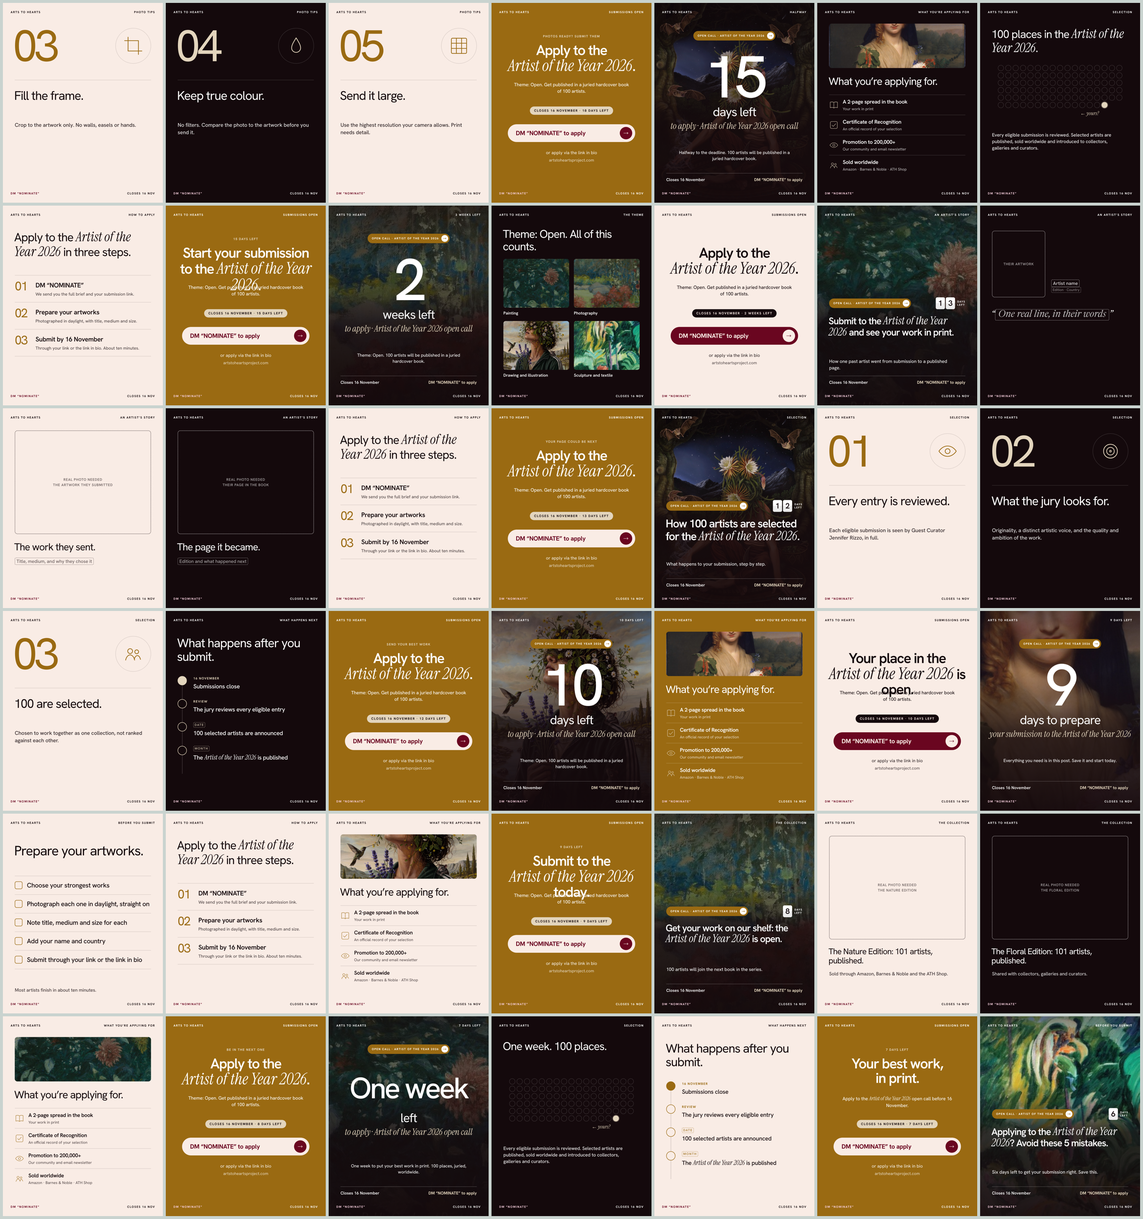
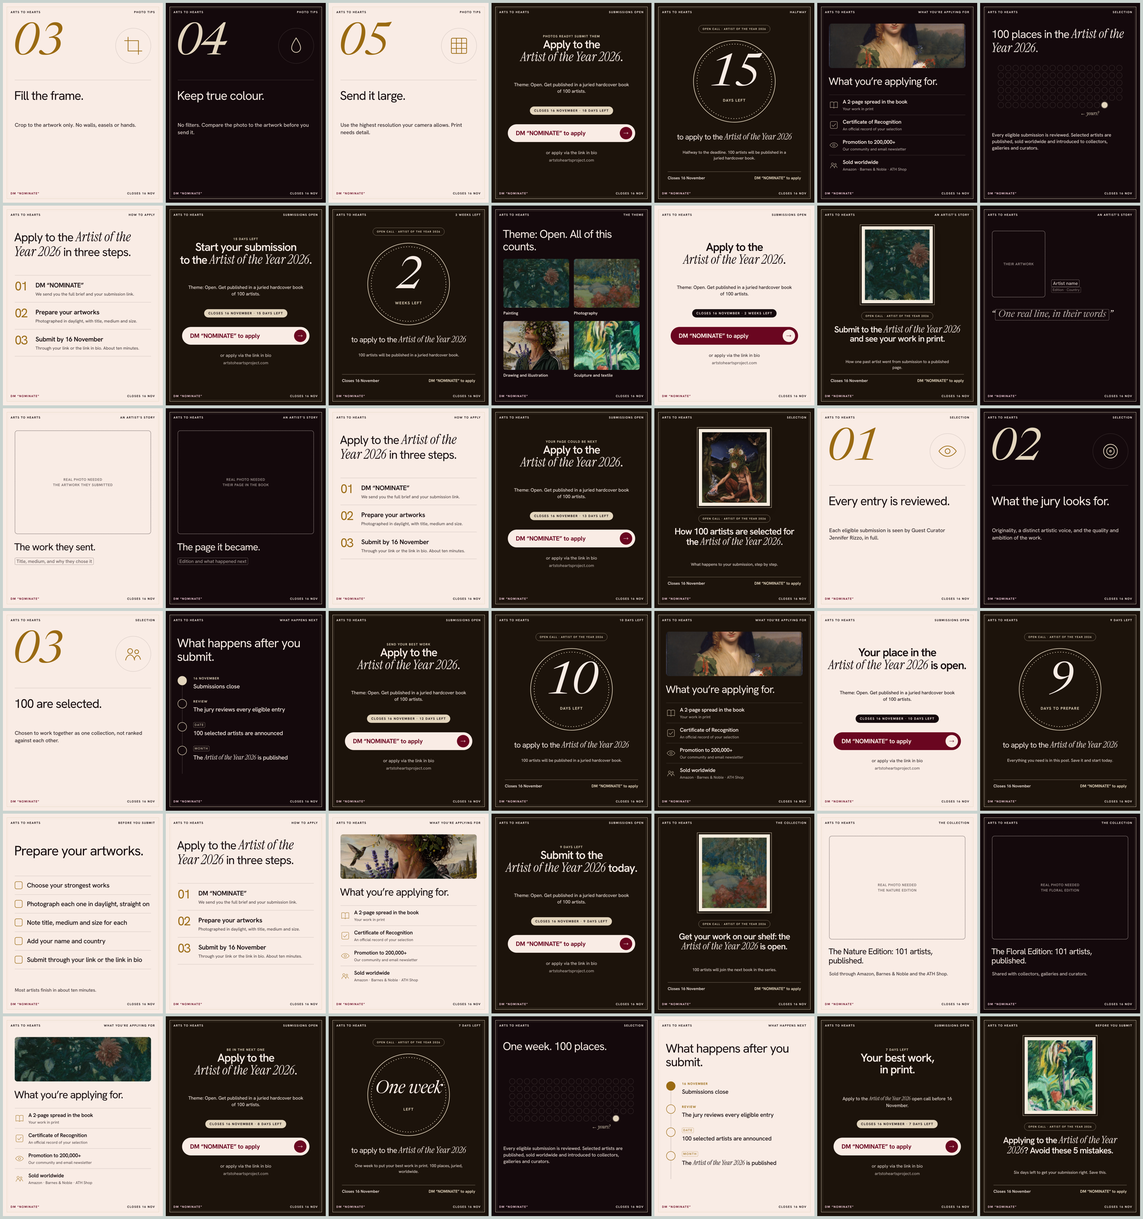
Per-call visual style: award look for Artist of the Year so calls never look alike
Claude-Session: https://claude.ai/code/session_01Bc4gkdxg6i3YRuybqzVB3k

diff --git a/design/campaigns/open-calls/month.js b/design/campaigns/open-calls/month.js
@@ -139,7 +139,7 @@ const T = {
     const b = (g.bg === CREAM ? btnCTA(BURG, CREAM, CREAM) : btnCTA(CREAM, BURG, BURG)).replace('{TOP}', 820);
     return {bg:g.bg, html:`${corners(g.fg, g.dm, o.tr||'Submissions open')}
       ${o.kicker ? `<p class="a c lab" style="left:0;right:0;top:210px;color:${g.acc}">${o.kicker}</p>` : ''}
-      <p class="a H c" style="left:60px;right:60px;top:270px;font-size:${o.size||96}px;color:${g.fg}">${o.head || `Apply to the<br>${GE()}.`}</p>
+      <p class="a H c" style="left:60px;right:60px;top:${String(state.name).length > 16 ? 240 : 270}px;font-size:${Math.round((o.size||96) * (String(state.name).length > 16 ? .8 : 1))}px;color:${g.fg}">${o.head || `Apply to the<br>${GE()}.`}</p>
       <p class="a c sub" style="left:140px;right:140px;top:${o.subTop||530}px;color:${g.fg};opacity:.92">${o.sub || `${state.theme ? 'Theme: ' + TH() + '. ' : ''}Get published in a juried hardcover book of ${esc(state.selected)} artists.`}</p>
       <div class="a" style="left:0;right:0;top:700px;display:flex;justify-content:center"><span class="cn" style="display:inline-flex;align-items:center;height:56px;padding:0 28px;border-radius:999px;background:${g.bg === CREAM ? INK : tint(state.colour)};color:${g.bg === CREAM ? CREAM : INK};font-size:22px">Closes ${dateLong()} · ${leftLabel()}</span></div>
       ${b}
@@ -258,6 +258,60 @@ const T = {
   },
 };
 
+
+// ---------- per-call visual identity ----------
+// 'gallery' (default): full-bleed artwork, grotesk numerals, open layouts.
+// 'award': a certificate world. Gold double frame on every slide, framed artwork,
+// serif numerals, medallion countdowns, deep ink-brown grounds.
+const AWARD_BG = '#1C130B';
+const isAward = () => state.style === 'award';
+const G0 = {...G};
+G.call = () => isAward() ? ({bg:AWARD_BG, fg:CREAM, acc:tint(state.colour), dm:PEONY, line:'rgba(249,236,229,.18)'}) : G0.call();
+G.ink  = () => isAward() ? ({bg:INK, fg:CREAM, acc:tint(state.colour), dm:PEONY, line:'rgba(249,236,229,.18)'}) : G0.ink();
+
+const gold = () => tint(state.colour);
+const frame = (c) => `<div class="a" style="inset:26px;border:2px solid ${c};pointer-events:none"></div><div class="a" style="inset:36px;border:1px solid ${c};opacity:.45;pointer-events:none"></div>`;
+const laurel = (c, w=520) => `<svg class="a" style="left:50%;top:${'{TOP}'}px;transform:translateX(-50%)" width="${w}" height="${w}" viewBox="0 0 200 200" fill="none" stroke="${c}" stroke-width="1.3">
+  <circle cx="100" cy="100" r="92"/><circle cx="100" cy="100" r="84" stroke-dasharray="2 4"/>
+  ${''}${[].map ? '' : Array.from({length:9}, (_,i) => { const a = (200 + i*14) * Math.PI/180, x = 100 + 70*Math.cos(a), y = 100 + 70*Math.sin(a); return `<ellipse cx="${x.toFixed(1)}" cy="${y.toFixed(1)}" rx="9" ry="4" transform="rotate(${(200 + i*14 + 60).toFixed(0)} ${x.toFixed(1)} ${y.toFixed(1)})"/>`; }).join('')}
+  ${[].map ? '' : Array.from({length:9}, (_,i) => { const a = (340 - i*14) * Math.PI/180, x = 100 + 70*Math.cos(a), y = 100 + 70*Math.sin(a); return `<ellipse cx="${x.toFixed(1)}" cy="${y.toFixed(1)}" rx="9" ry="4" transform="rotate(${(340 - i*14 - 60).toFixed(0)} ${x.toFixed(1)} ${y.toFixed(1)})"/>`; }).join('')}
+</svg>`;
+const framedArt = (src, style, pos) => `<div class="a" style="${style};background:#F4EBDD;padding:22px;box-shadow:0 30px 50px -20px rgba(0,0,0,.6);outline:2px solid ${gold()};outline-offset:10px">
+  <div class="img" style="width:100%;height:100%;background-image:url(${src});background-size:cover;background-position:${pos || 'center 30%'}"></div></div>`;
+const serifNum = (n, size, c) => `<span style="font-family:'ATH Serif',serif;font-style:italic;font-weight:400;font-size:${size}px;line-height:.85;letter-spacing:-.03em;color:${c}">${n}</span>`;
+const strip = (fg, acc) => `<div class="a" style="left:90px;right:90px;top:1140px;display:flex;justify-content:space-between;align-items:center;padding-top:22px;border-top:1px solid ${acc}">
+  <span style="font-size:27px;font-weight:600;color:${fg}">Closes ${dateLong()}</span><span style="font-size:27px;font-weight:700;color:${acc}">${VERB} “${KW()}” to apply</span></div>`;
+const awardTag = () => `<span class="cn" style="display:inline-flex;align-items:center;height:52px;padding:0 26px;border:1.5px solid ${gold()};color:${gold()};border-radius:999px;font-size:18px">Open call · ${esc(state.name)}</span>`;
+
+const AW = {
+  hook(o){ const c = gold();
+    return {bg:AWARD_BG, html:`${frame(c)}${corners(CREAM, PEONY, o.tr)}
+      ${framedArt(o.img || o.art || ART[0], 'left:300px;right:300px;top:140px;height:520px', o.pos || o.artPos)}
+      <div class="a c" style="left:0;right:0;top:720px">${awardTag()}</div>
+      <p class="a c H" style="left:110px;right:110px;top:800px;font-size:${Math.round((o.size||80)*.78)}px;color:${CREAM}">${o.head}</p>
+      ${o.sub ? `<p class="a c sub" style="left:160px;right:160px;top:1035px;font-size:28px;color:${CREAM};opacity:.85">${o.sub}</p>` : ''}
+      ${strip(CREAM, c)}`};
+  },
+  count(o){ const c = gold(); const tone = o.tone === 'chilli' ? '#5A0A0A' : AWARD_BG;
+    const big = String(o.big); const size = big.length <= 2 ? 300 : big.length <= 8 ? 120 : 96;
+    return {bg:tone, html:`${frame(c)}${corners(CREAM, PEONY, o.tr || leftLabel())}
+      <div class="a c" style="left:0;right:0;top:150px">${awardTag()}</div>
+      ${laurel(c, 600).replace('{TOP}', 230)}
+      <div class="a c" style="left:0;right:0;top:${big.length <= 2 ? 360 : 440}px">${serifNum(big, size, CREAM)}</div>
+      <p class="a c lab" style="left:0;right:0;top:${big.length <= 2 ? 640 : 610}px;color:${c};font-size:26px">${esc(o.unit)}</p>
+      <p class="a c R" style="left:110px;right:110px;top:870px;font-size:52px;color:${CREAM}">to apply to the ${GE()}</p>
+      <p class="a c sub" style="left:160px;right:160px;top:${o.infoTop ? o.infoTop + 40 : 990}px;font-size:28px;color:${CREAM};opacity:.85">${o.info || `${esc(state.selected)} artists will be published in a juried hardcover book.`}</p>
+      ${strip(CREAM, c)}`};
+  },
+};
+const T0 = {...T};
+T.hook = o => isAward() ? AW.hook(o) : T0.hook(o);
+T.count = o => isAward() ? AW.count(o) : T0.count(o);
+T.num = o => { const s = T0.num(o); if (!isAward() || o.img !== undefined) return s;
+  s.html = s.html.replace(/<p class="a" style="left:66px;top:170px;font-size:300px;font-weight:400;letter-spacing:-\.07em;line-height:\.8;color:([^"]+)">([^<]*)<\/p>/, (m, col, n) => `<p class="a" style="left:66px;top:150px">${serifNum(n, 300, col)}</p>`); return s; };
+// every slide in the award style sits inside the gold certificate frame
+const decorate = (s) => (isAward() && !s.html.includes('inset:26px;border:2px')) ? {...s, html: frame(gold()) + s.html} : s;
+
 // ---------- countdown singles: a different idea at every milestone ----------
 const CD = {
   weeks(left){ const g = G.cream(); const n = left; const d0 = new Date(dl()); d0.setDate(d0.getDate() - left);
@@ -342,7 +396,7 @@ const closeLn = () => `Submissions close ${dl().getDate()} ${MONTHS_L[dl().getMo
 const N = () => state.name, S = () => state.series, SEL = () => state.selected;
 
 function monthPosts(){ const name = GE(), sel = esc(state.selected); return [
- {left:30, title:'Launch', kind:'Carousel', slides:() => launch(), caption:() => caption(), pin:() => pinned()},
+ {left:30, title:'Launch', kind:'Carousel', slides:() => { const s = launch(); if (isAward()) s[0] = {...AW.hook({img:state.images.imgCover, tr:esc(state.series), head:`${esc(state.headline || 'Call for artists')}<br>${GE()}`, size:120, sub:esc(state.coverLine)}), title:'cover'}; return s; }, caption:() => caption(), pin:() => pinned()},
 
  {left:28, title:'What you can submit', kind:'Carousel · theme', slides:() => [
    T.hook({img:EX.bloom, tr:'The theme', head:`What can you submit to the ${name}?`, sub:`Five kinds of ${TW()} the jury wants to see. ${sel} will be published.`}),

diff --git a/site/post-studio/month.js b/site/post-studio/month.js
@@ -139,7 +139,7 @@ const T = {
     const b = (g.bg === CREAM ? btnCTA(BURG, CREAM, CREAM) : btnCTA(CREAM, BURG, BURG)).replace('{TOP}', 820);
     return {bg:g.bg, html:`${corners(g.fg, g.dm, o.tr||'Submissions open')}
       ${o.kicker ? `<p class="a c lab" style="left:0;right:0;top:210px;color:${g.acc}">${o.kicker}</p>` : ''}
-      <p class="a H c" style="left:60px;right:60px;top:270px;font-size:${o.size||96}px;color:${g.fg}">${o.head || `Apply to the<br>${GE()}.`}</p>
+      <p class="a H c" style="left:60px;right:60px;top:${String(state.name).length > 16 ? 240 : 270}px;font-size:${Math.round((o.size||96) * (String(state.name).length > 16 ? .8 : 1))}px;color:${g.fg}">${o.head || `Apply to the<br>${GE()}.`}</p>
       <p class="a c sub" style="left:140px;right:140px;top:${o.subTop||530}px;color:${g.fg};opacity:.92">${o.sub || `${state.theme ? 'Theme: ' + TH() + '. ' : ''}Get published in a juried hardcover book of ${esc(state.selected)} artists.`}</p>
       <div class="a" style="left:0;right:0;top:700px;display:flex;justify-content:center"><span class="cn" style="display:inline-flex;align-items:center;height:56px;padding:0 28px;border-radius:999px;background:${g.bg === CREAM ? INK : tint(state.colour)};color:${g.bg === CREAM ? CREAM : INK};font-size:22px">Closes ${dateLong()} · ${leftLabel()}</span></div>
       ${b}
@@ -258,6 +258,60 @@ const T = {
   },
 };
 
+
+// ---------- per-call visual identity ----------
+// 'gallery' (default): full-bleed artwork, grotesk numerals, open layouts.
+// 'award': a certificate world. Gold double frame on every slide, framed artwork,
+// serif numerals, medallion countdowns, deep ink-brown grounds.
+const AWARD_BG = '#1C130B';
+const isAward = () => state.style === 'award';
+const G0 = {...G};
+G.call = () => isAward() ? ({bg:AWARD_BG, fg:CREAM, acc:tint(state.colour), dm:PEONY, line:'rgba(249,236,229,.18)'}) : G0.call();
+G.ink  = () => isAward() ? ({bg:INK, fg:CREAM, acc:tint(state.colour), dm:PEONY, line:'rgba(249,236,229,.18)'}) : G0.ink();
+
+const gold = () => tint(state.colour);
+const frame = (c) => `<div class="a" style="inset:26px;border:2px solid ${c};pointer-events:none"></div><div class="a" style="inset:36px;border:1px solid ${c};opacity:.45;pointer-events:none"></div>`;
+const laurel = (c, w=520) => `<svg class="a" style="left:50%;top:${'{TOP}'}px;transform:translateX(-50%)" width="${w}" height="${w}" viewBox="0 0 200 200" fill="none" stroke="${c}" stroke-width="1.3">
+  <circle cx="100" cy="100" r="92"/><circle cx="100" cy="100" r="84" stroke-dasharray="2 4"/>
+  ${''}${[].map ? '' : Array.from({length:9}, (_,i) => { const a = (200 + i*14) * Math.PI/180, x = 100 + 70*Math.cos(a), y = 100 + 70*Math.sin(a); return `<ellipse cx="${x.toFixed(1)}" cy="${y.toFixed(1)}" rx="9" ry="4" transform="rotate(${(200 + i*14 + 60).toFixed(0)} ${x.toFixed(1)} ${y.toFixed(1)})"/>`; }).join('')}
+  ${[].map ? '' : Array.from({length:9}, (_,i) => { const a = (340 - i*14) * Math.PI/180, x = 100 + 70*Math.cos(a), y = 100 + 70*Math.sin(a); return `<ellipse cx="${x.toFixed(1)}" cy="${y.toFixed(1)}" rx="9" ry="4" transform="rotate(${(340 - i*14 - 60).toFixed(0)} ${x.toFixed(1)} ${y.toFixed(1)})"/>`; }).join('')}
+</svg>`;
+const framedArt = (src, style, pos) => `<div class="a" style="${style};background:#F4EBDD;padding:22px;box-shadow:0 30px 50px -20px rgba(0,0,0,.6);outline:2px solid ${gold()};outline-offset:10px">
+  <div class="img" style="width:100%;height:100%;background-image:url(${src});background-size:cover;background-position:${pos || 'center 30%'}"></div></div>`;
+const serifNum = (n, size, c) => `<span style="font-family:'ATH Serif',serif;font-style:italic;font-weight:400;font-size:${size}px;line-height:.85;letter-spacing:-.03em;color:${c}">${n}</span>`;
+const strip = (fg, acc) => `<div class="a" style="left:90px;right:90px;top:1140px;display:flex;justify-content:space-between;align-items:center;padding-top:22px;border-top:1px solid ${acc}">
+  <span style="font-size:27px;font-weight:600;color:${fg}">Closes ${dateLong()}</span><span style="font-size:27px;font-weight:700;color:${acc}">${VERB} “${KW()}” to apply</span></div>`;
+const awardTag = () => `<span class="cn" style="display:inline-flex;align-items:center;height:52px;padding:0 26px;border:1.5px solid ${gold()};color:${gold()};border-radius:999px;font-size:18px">Open call · ${esc(state.name)}</span>`;
+
+const AW = {
+  hook(o){ const c = gold();
+    return {bg:AWARD_BG, html:`${frame(c)}${corners(CREAM, PEONY, o.tr)}
+      ${framedArt(o.img || o.art || ART[0], 'left:300px;right:300px;top:140px;height:520px', o.pos || o.artPos)}
+      <div class="a c" style="left:0;right:0;top:720px">${awardTag()}</div>
+      <p class="a c H" style="left:110px;right:110px;top:800px;font-size:${Math.round((o.size||80)*.78)}px;color:${CREAM}">${o.head}</p>
+      ${o.sub ? `<p class="a c sub" style="left:160px;right:160px;top:1035px;font-size:28px;color:${CREAM};opacity:.85">${o.sub}</p>` : ''}
+      ${strip(CREAM, c)}`};
+  },
+  count(o){ const c = gold(); const tone = o.tone === 'chilli' ? '#5A0A0A' : AWARD_BG;
+    const big = String(o.big); const size = big.length <= 2 ? 300 : big.length <= 8 ? 120 : 96;
+    return {bg:tone, html:`${frame(c)}${corners(CREAM, PEONY, o.tr || leftLabel())}
+      <div class="a c" style="left:0;right:0;top:150px">${awardTag()}</div>
+      ${laurel(c, 600).replace('{TOP}', 230)}
+      <div class="a c" style="left:0;right:0;top:${big.length <= 2 ? 360 : 440}px">${serifNum(big, size, CREAM)}</div>
+      <p class="a c lab" style="left:0;right:0;top:${big.length <= 2 ? 640 : 610}px;color:${c};font-size:26px">${esc(o.unit)}</p>
+      <p class="a c R" style="left:110px;right:110px;top:870px;font-size:52px;color:${CREAM}">to apply to the ${GE()}</p>
+      <p class="a c sub" style="left:160px;right:160px;top:${o.infoTop ? o.infoTop + 40 : 990}px;font-size:28px;color:${CREAM};opacity:.85">${o.info || `${esc(state.selected)} artists will be published in a juried hardcover book.`}</p>
+      ${strip(CREAM, c)}`};
+  },
+};
+const T0 = {...T};
+T.hook = o => isAward() ? AW.hook(o) : T0.hook(o);
+T.count = o => isAward() ? AW.count(o) : T0.count(o);
+T.num = o => { const s = T0.num(o); if (!isAward() || o.img !== undefined) return s;
+  s.html = s.html.replace(/<p class="a" style="left:66px;top:170px;font-size:300px;font-weight:400;letter-spacing:-\.07em;line-height:\.8;color:([^"]+)">([^<]*)<\/p>/, (m, col, n) => `<p class="a" style="left:66px;top:150px">${serifNum(n, 300, col)}</p>`); return s; };
+// every slide in the award style sits inside the gold certificate frame
+const decorate = (s) => (isAward() && !s.html.includes('inset:26px;border:2px')) ? {...s, html: frame(gold()) + s.html} : s;
+
 // ---------- countdown singles: a different idea at every milestone ----------
 const CD = {
   weeks(left){ const g = G.cream(); const n = left; const d0 = new Date(dl()); d0.setDate(d0.getDate() - left);
@@ -342,7 +396,7 @@ const closeLn = () => `Submissions close ${dl().getDate()} ${MONTHS_L[dl().getMo
 const N = () => state.name, S = () => state.series, SEL = () => state.selected;
 
 function monthPosts(){ const name = GE(), sel = esc(state.selected); return [
- {left:30, title:'Launch', kind:'Carousel', slides:() => launch(), caption:() => caption(), pin:() => pinned()},
+ {left:30, title:'Launch', kind:'Carousel', slides:() => { const s = launch(); if (isAward()) s[0] = {...AW.hook({img:state.images.imgCover, tr:esc(state.series), head:`${esc(state.headline || 'Call for artists')}<br>${GE()}`, size:120, sub:esc(state.coverLine)}), title:'cover'}; return s; }, caption:() => caption(), pin:() => pinned()},
 
  {left:28, title:'What you can submit', kind:'Carousel · theme', slides:() => [
    T.hook({img:EX.bloom, tr:'The theme', head:`What can you submit to the ${name}?`, sub:`Five kinds of ${TW()} the jury wants to see. ${sel} will be published.`}),

diff --git a/site/post-studio/index.html b/site/post-studio/index.html
@@ -100,6 +100,7 @@ summary{font:600 12px/1 var(--mono);letter-spacing:.1em;text-transform:uppercase
       <div class="f"><label for="editionLabel">Edition label (cover tag)</label><input id="editionLabel"></div>
       <div class="f"><label for="seriesNoun">Count noun (“editions”, “books”)</label><input id="seriesNoun"></div>
     </div>
+    <div class="f"><label for="style">Visual style (so calls never look alike)</label><select id="style"><option value="gallery">Gallery: full-bleed artwork</option><option value="award">Award: gold certificate frame, medallion countdowns</option></select></div>
     <div class="f"><label for="name">Edition name</label><input id="name"></div>
     <div class="row2">
       <div class="f"><label for="keyword">DM keyword</label><input id="keyword"></div>
@@ -206,7 +207,7 @@ const DEFAULTS = {
   prize:'$500', prizeExtra:'a 4-page feature, a trophy and an Artsy listing', runners:'A 2-page feature and a trophy.',
   jury:'', results:'', pub:'', fee:'', commentFrom:'2026-12-08', elig:'No degree, gallery or exhibition history needed. Individual artists, 18+, worldwide.',
   credit:'', artists:'',
-  editionLabel:'Edition 16', seriesNoun:'editions',
+  editionLabel:'Edition 16', seriesNoun:'editions', style:'gallery',
   theme:'Garden', themeWork:'garden work', themeLine:'flowers, plants, landscapes, people and nature, abstract or imagined growth',
   juryLooks:'Originality, a considered reading of the garden theme, and the quality of the work.',
   kinds:'A single bloom | Close looking counts. One flower or leaf, made with care.\nA landscape | Fields, hedgerows, the view from a window you grew up with.\nPeople and nature | Figures and faces intertwined with the growing world.\nAbstract growth | Colour, rhythm and form that feel alive, without a single petal.\nA garden remembered | An imagined or remembered place. Memory is a garden too.',
@@ -216,7 +217,7 @@ const DEFAULTS = {
 const PRESETS = {
   'Garden Edition': {},
   'Artist of the Year 2026': {
-    series:'Arts to Hearts', edition:'2026', editionLabel:'Hardcover collectible book', name:'Artist of the Year 2026', keyword:'NOMINATE', deadline:'2026-11-16', selected:'100',
+    style:'award', series:'Arts to Hearts', edition:'2026', editionLabel:'Hardcover collectible book', name:'Artist of the Year 2026', keyword:'NOMINATE', deadline:'2026-11-16', selected:'100',
     headline:'Call for artists', coverLine:'Get published in the Artist of the Year 2026 hardcover book. 100 artists.', colour:'#9A6A12',
     editions:'35+', seriesNoun:'books', published:'10,000+',
     quote:'No single subject, medium, or direction. The full range of what artists are making today.',
@@ -393,7 +394,7 @@ function launch(){
 
   // 11 action
   const mini = [[PEONY,250],[CREAM,280],[BURG,240],[INK,270],[PEONY,230],[CREAM,260]].map(([c,h]) => `<div style="flex:1;height:${h}px;background:${c};border-radius:3px 3px 0 0;box-shadow:inset 0 0 0 2px rgba(255,255,255,.18)"></div>`).join('');
-  S.push({bg:C, html:`${corners(WHITE, PEONY, 'Submissions open')}
+  S.push({bg:(state.style === 'award' ? '#1C130B' : C), html:`${corners(WHITE, PEONY, 'Submissions open')}
     <p class="a H c" style="left:60px;right:60px;top:180px;font-size:108px;color:${WHITE}">Take your place<br>on the shelf.</p>
     <div class="a" style="left:250px;right:250px;top:450px;height:300px;display:flex;align-items:flex-end;gap:10px;border-bottom:6px solid ${CREAM};padding:0 14px">${mini}
       <div style="flex:1.5;height:290px;background:${Tn};border-radius:3px 3px 0 0;box-shadow:0 0 0 6px ${rgba(Tn,.3)};position:relative">${spineLab(state.name, INK, 30)}</div></div>
@@ -448,7 +449,7 @@ function render(){
   } else {
     const all = monthPosts(); const list = pick === 'month' ? all : [all[Number(pick)]];
     list.forEach((p,pi) => { VERB = verbFor(p.left); CURLEFT = p.left;
-      const slides = p.slides(); const cap = p.caption(); const pin = p.pin ? p.pin() : `${VERB === 'COMMENT' ? 'Comment' : 'DM us'} "${(state.keyword||'').toUpperCase()}" for the brief and your link. Closes ${short()}.`;
+      const slides = p.slides().map(decorate); const cap = p.caption(); const pin = p.pin ? p.pin() : `${VERB === 'COMMENT' ? 'Comment' : 'DM us'} "${(state.keyword||'').toUpperCase()}" for the brief and your link. Closes ${short()}.`;
       groups.push({title: `${postDate(p.left)} · ${p.title}`, meta: `${p.kind} · ${slides.length} slide${slides.length>1?'s':''} · ${p.left === 0 ? 'deadline day' : p.left + ' days left'} · ${VERB} “${KW()}”`, slides: slides.map((s,j) => ({...s, title: s.title || (p.title.toLowerCase().replace(/[^a-z0-9]+/g,'-') + (slides.length>1 ? '-'+(j+1) : ''))})), cap, pin, left:p.left, idx:pi});
       VERB = 'DM'; });
   }

diff --git a/design/campaigns/open-calls/post-studio.html b/design/campaigns/open-calls/post-studio.html
@@ -97,6 +97,7 @@ summary{font:600 12px/1 var(--mono);letter-spacing:.1em;text-transform:uppercase
       <div class="f"><label for="editionLabel">Edition label (cover tag)</label><input id="editionLabel"></div>
       <div class="f"><label for="seriesNoun">Count noun (“editions”, “books”)</label><input id="seriesNoun"></div>
     </div>
+    <div class="f"><label for="style">Visual style (so calls never look alike)</label><select id="style"><option value="gallery">Gallery: full-bleed artwork</option><option value="award">Award: gold certificate frame, medallion countdowns</option></select></div>
     <div class="f"><label for="name">Edition name</label><input id="name"></div>
     <div class="row2">
       <div class="f"><label for="keyword">DM keyword</label><input id="keyword"></div>
@@ -203,7 +204,7 @@ const DEFAULTS = {
   prize:'$500', prizeExtra:'a 4-page feature, a trophy and an Artsy listing', runners:'A 2-page feature and a trophy.',
   jury:'', results:'', pub:'', fee:'', commentFrom:'2026-12-08', elig:'No degree, gallery or exhibition history needed. Individual artists, 18+, worldwide.',
   credit:'', artists:'',
-  editionLabel:'Edition 16', seriesNoun:'editions',
+  editionLabel:'Edition 16', seriesNoun:'editions', style:'gallery',
   theme:'Garden', themeWork:'garden work', themeLine:'flowers, plants, landscapes, people and nature, abstract or imagined growth',
   juryLooks:'Originality, a considered reading of the garden theme, and the quality of the work.',
   kinds:'A single bloom | Close looking counts. One flower or leaf, made with care.\nA landscape | Fields, hedgerows, the view from a window you grew up with.\nPeople and nature | Figures and faces intertwined with the growing world.\nAbstract growth | Colour, rhythm and form that feel alive, without a single petal.\nA garden remembered | An imagined or remembered place. Memory is a garden too.',
@@ -213,7 +214,7 @@ const DEFAULTS = {
 const PRESETS = {
   'Garden Edition': {},
   'Artist of the Year 2026': {
-    series:'Arts to Hearts', edition:'2026', editionLabel:'Hardcover collectible book', name:'Artist of the Year 2026', keyword:'NOMINATE', deadline:'2026-11-16', selected:'100',
+    style:'award', series:'Arts to Hearts', edition:'2026', editionLabel:'Hardcover collectible book', name:'Artist of the Year 2026', keyword:'NOMINATE', deadline:'2026-11-16', selected:'100',
     headline:'Call for artists', coverLine:'Get published in the Artist of the Year 2026 hardcover book. 100 artists.', colour:'#9A6A12',
     editions:'35+', seriesNoun:'books', published:'10,000+',
     quote:'No single subject, medium, or direction. The full range of what artists are making today.',
@@ -390,7 +391,7 @@ function launch(){
 
   // 11 action
   const mini = [[PEONY,250],[CREAM,280],[BURG,240],[INK,270],[PEONY,230],[CREAM,260]].map(([c,h]) => `<div style="flex:1;height:${h}px;background:${c};border-radius:3px 3px 0 0;box-shadow:inset 0 0 0 2px rgba(255,255,255,.18)"></div>`).join('');
-  S.push({bg:C, html:`${corners(WHITE, PEONY, 'Submissions open')}
+  S.push({bg:(state.style === 'award' ? '#1C130B' : C), html:`${corners(WHITE, PEONY, 'Submissions open')}
     <p class="a H c" style="left:60px;right:60px;top:180px;font-size:108px;color:${WHITE}">Take your place<br>on the shelf.</p>
     <div class="a" style="left:250px;right:250px;top:450px;height:300px;display:flex;align-items:flex-end;gap:10px;border-bottom:6px solid ${CREAM};padding:0 14px">${mini}
       <div style="flex:1.5;height:290px;background:${Tn};border-radius:3px 3px 0 0;box-shadow:0 0 0 6px ${rgba(Tn,.3)};position:relative">${spineLab(state.name, INK, 30)}</div></div>
@@ -445,7 +446,7 @@ function render(){
   } else {
     const all = monthPosts(); const list = pick === 'month' ? all : [all[Number(pick)]];
     list.forEach((p,pi) => { VERB = verbFor(p.left); CURLEFT = p.left;
-      const slides = p.slides(); const cap = p.caption(); const pin = p.pin ? p.pin() : `${VERB === 'COMMENT' ? 'Comment' : 'DM us'} "${(state.keyword||'').toUpperCase()}" for the brief and your link. Closes ${short()}.`;
+      const slides = p.slides().map(decorate); const cap = p.caption(); const pin = p.pin ? p.pin() : `${VERB === 'COMMENT' ? 'Comment' : 'DM us'} "${(state.keyword||'').toUpperCase()}" for the brief and your link. Closes ${short()}.`;
       groups.push({title: `${postDate(p.left)} · ${p.title}`, meta: `${p.kind} · ${slides.length} slide${slides.length>1?'s':''} · ${p.left === 0 ? 'deadline day' : p.left + ' days left'} · ${VERB} “${KW()}”`, slides: slides.map((s,j) => ({...s, title: s.title || (p.title.toLowerCase().replace(/[^a-z0-9]+/g,'-') + (slides.length>1 ? '-'+(j+1) : ''))})), cap, pin, left:p.left, idx:pi});
       VERB = 'DM'; });
   }
